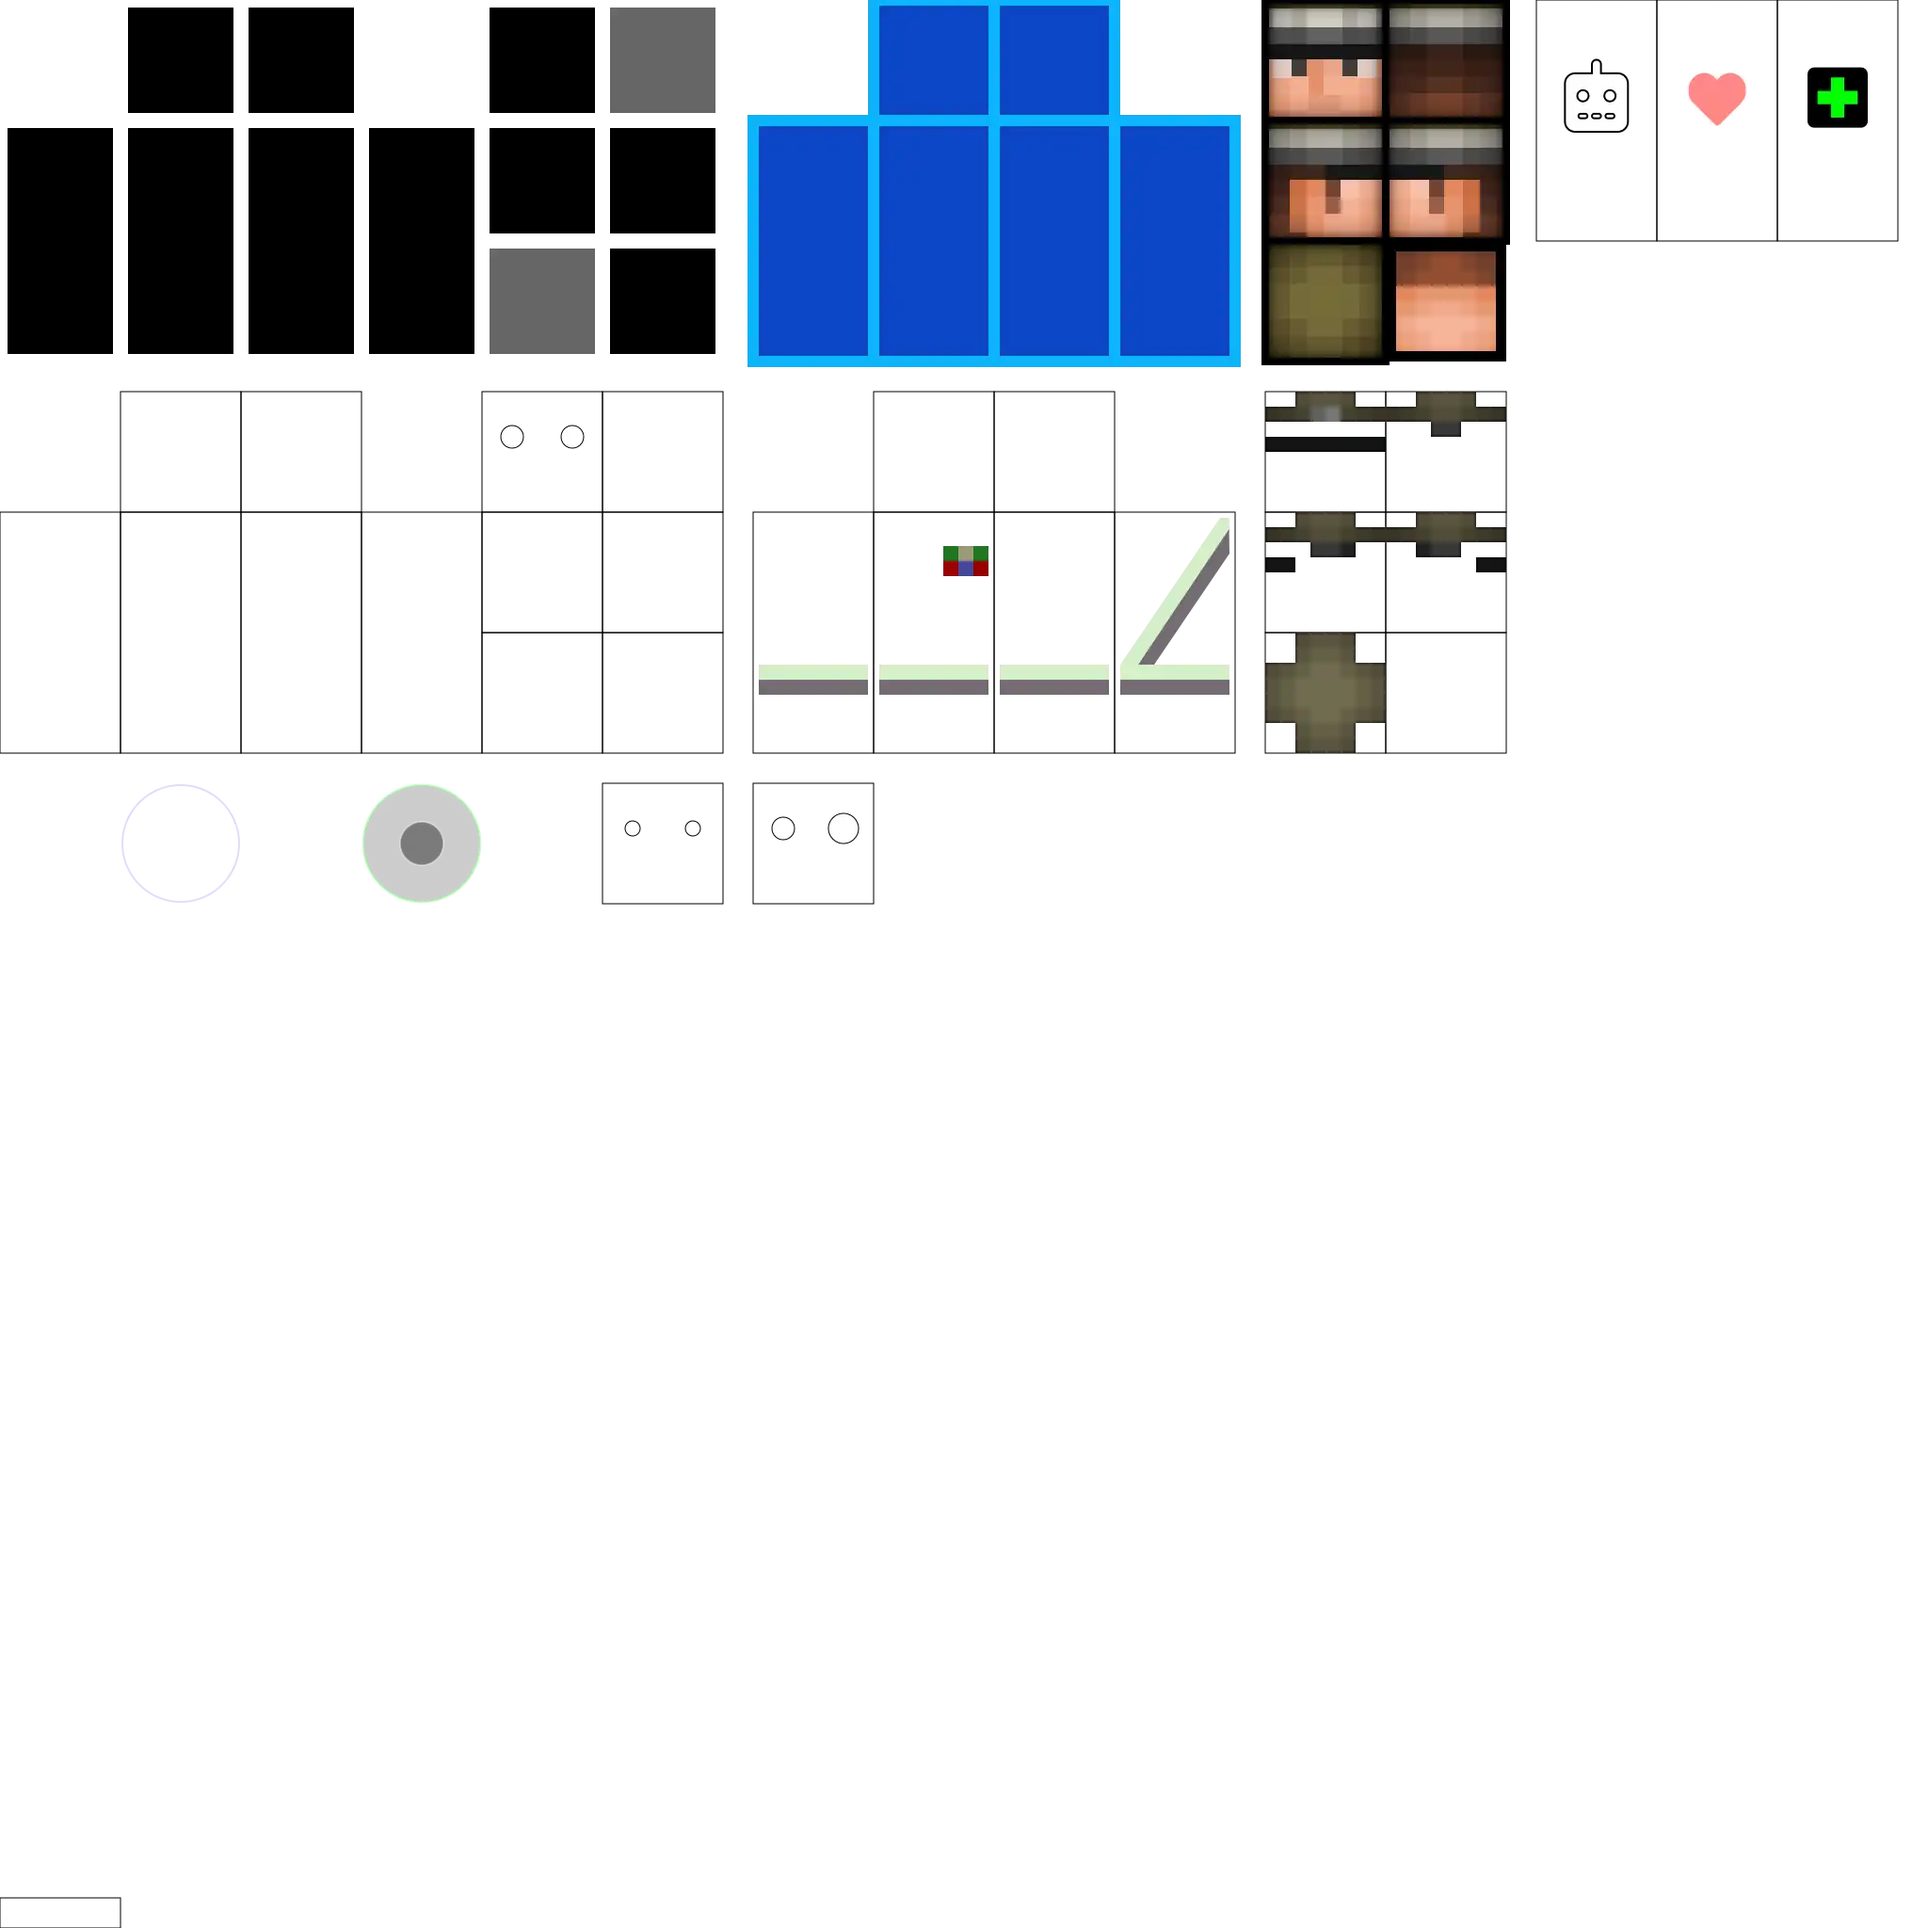
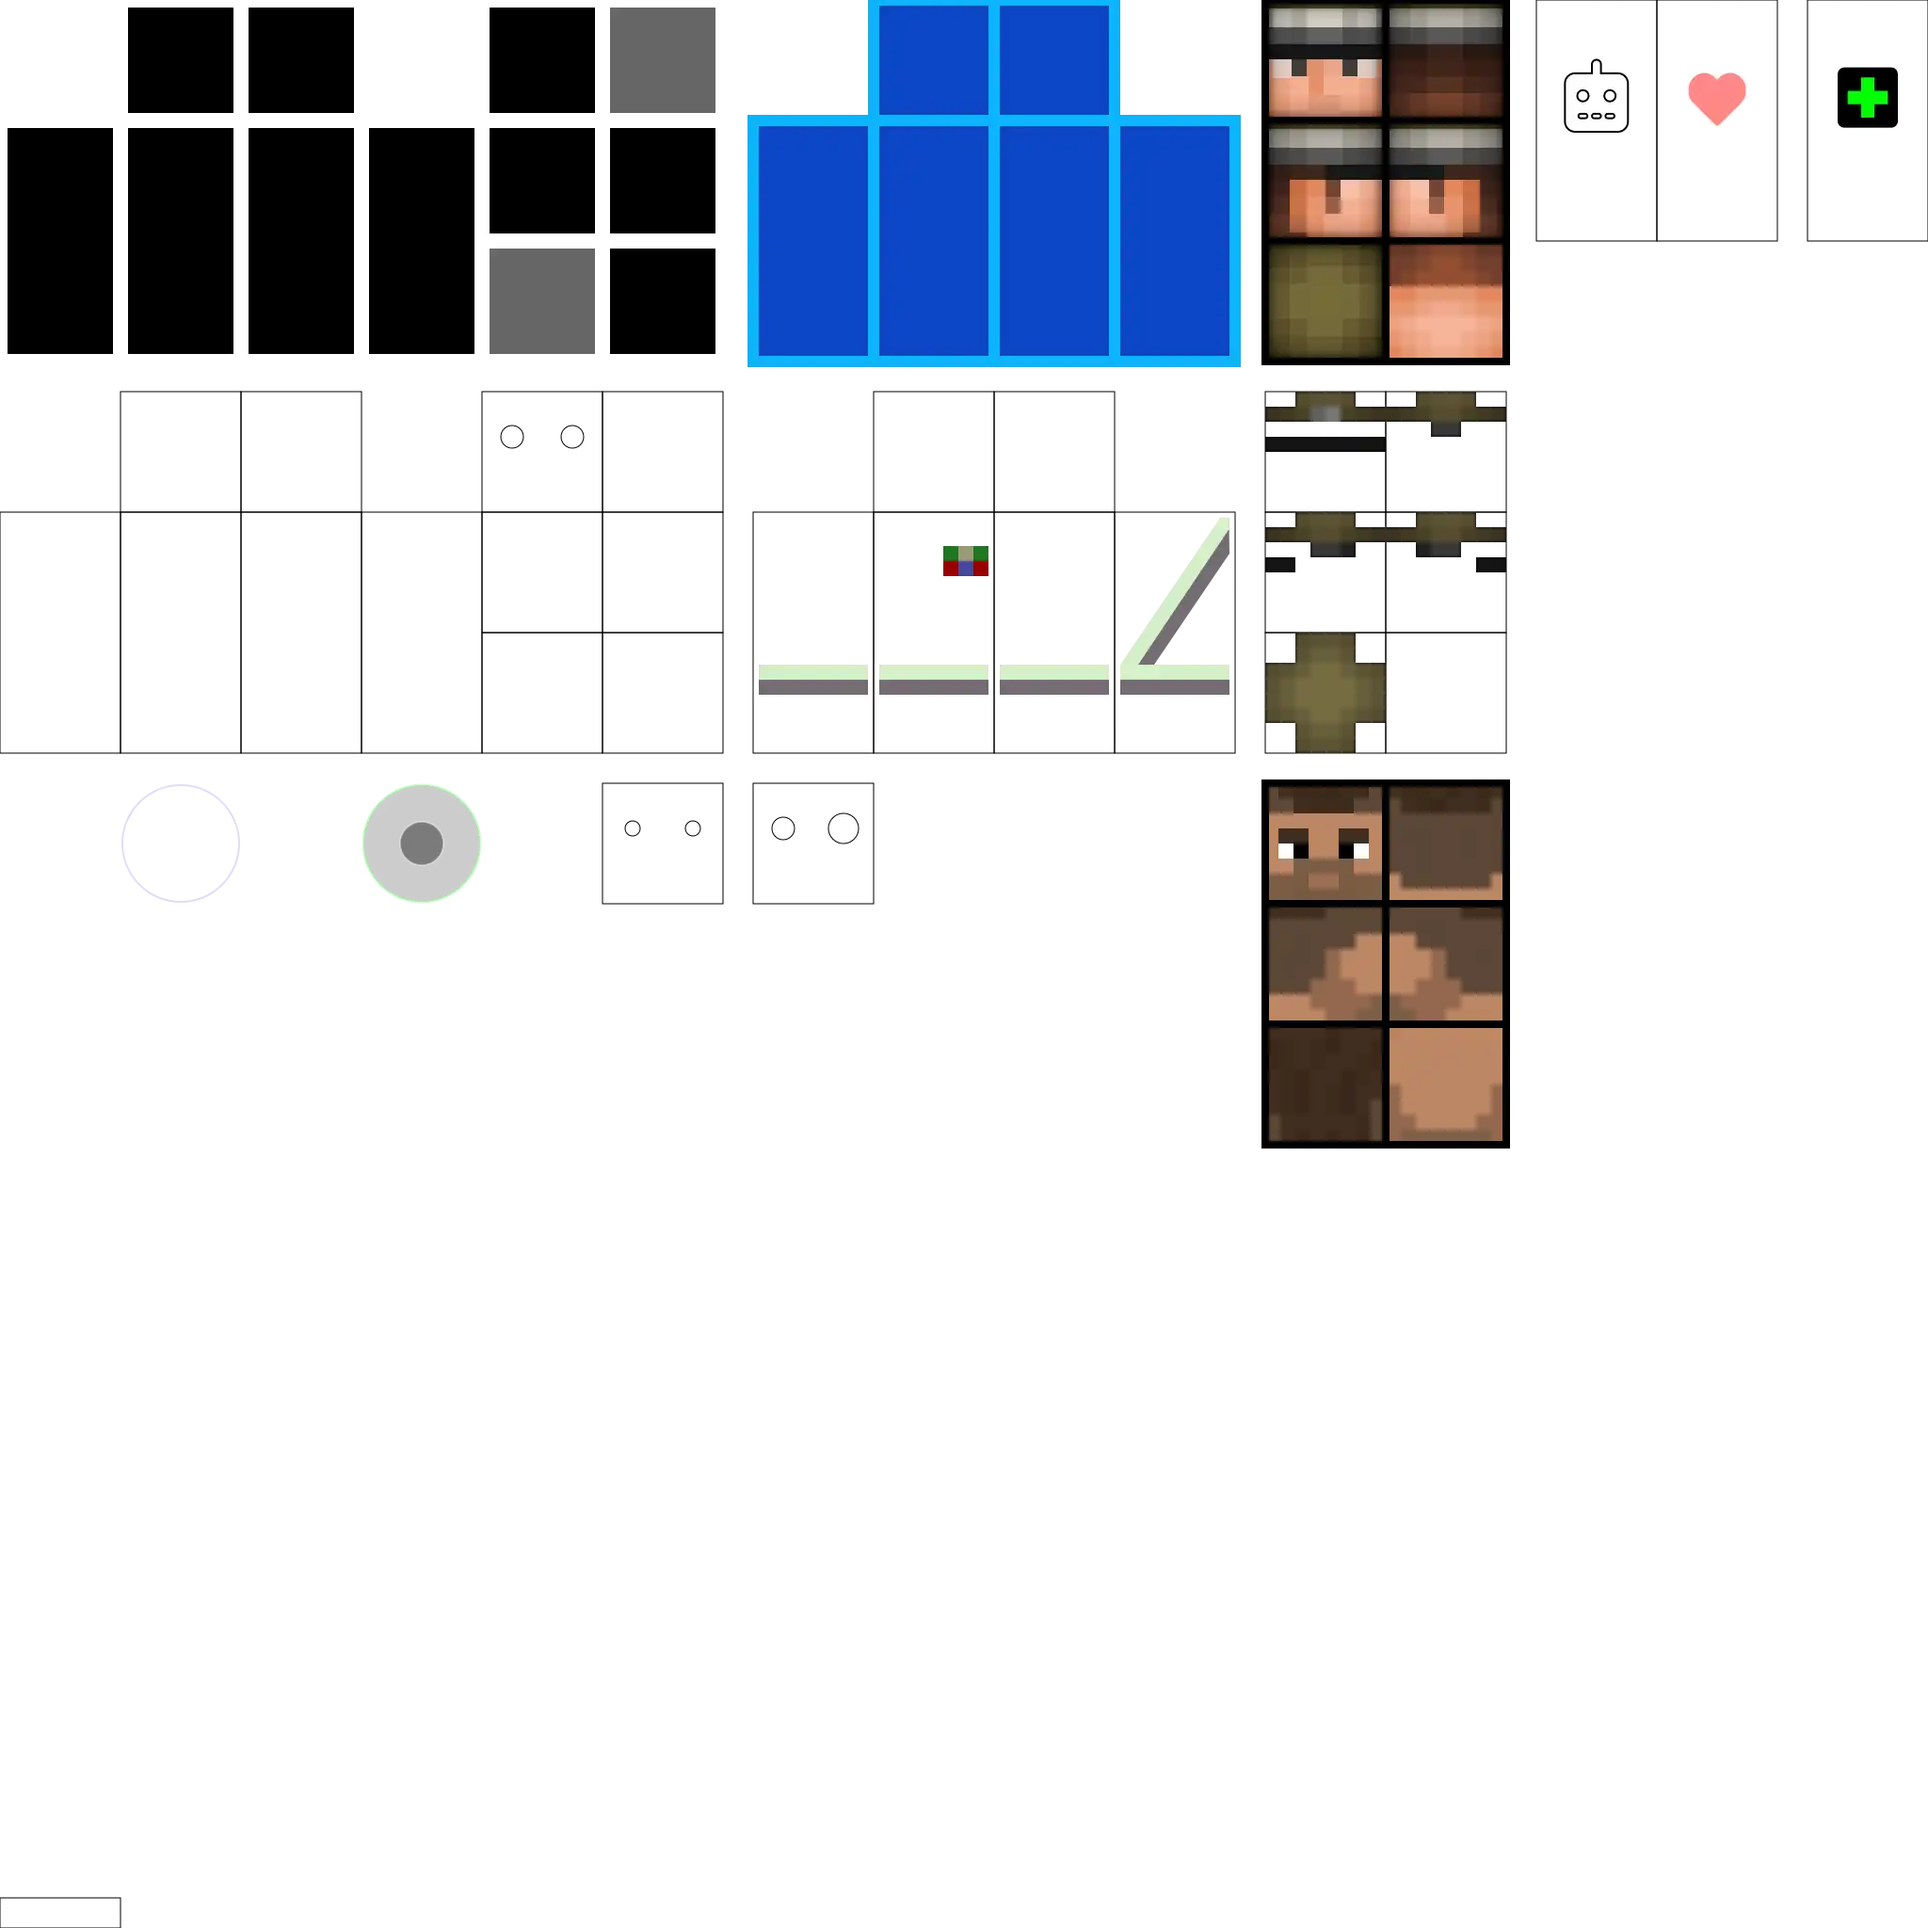
feat: scientist-0-head + fix sheet grid

Changed region(s): [[0.6562, 0.4062, 0.7812, 0.5938], [0.7188, 0.125, 0.7812, 0.1875], [0.9375, 0.0312, 1.0, 0.0938]]

diff --git a/docs/TODO.md b/docs/TODO.md
@@ -192,8 +192,8 @@
   
   - 🚧 start another minecraft migration i.e. scientist-0
     - https://namemc.com/skin/7161dce64d6b12be
-    - 🚧 scientist-0-head
-    - scientist-0-head-overlay
+    - ✅ scientist-0-head
+    - 🚧 scientist-0-head-overlay
     - scientist-0-body-overlay
 
   - ✅ IDEA load SVG using `canvas` and somehow convert it into `@napi-rs/canvas` (or `skia-canvas`) format
